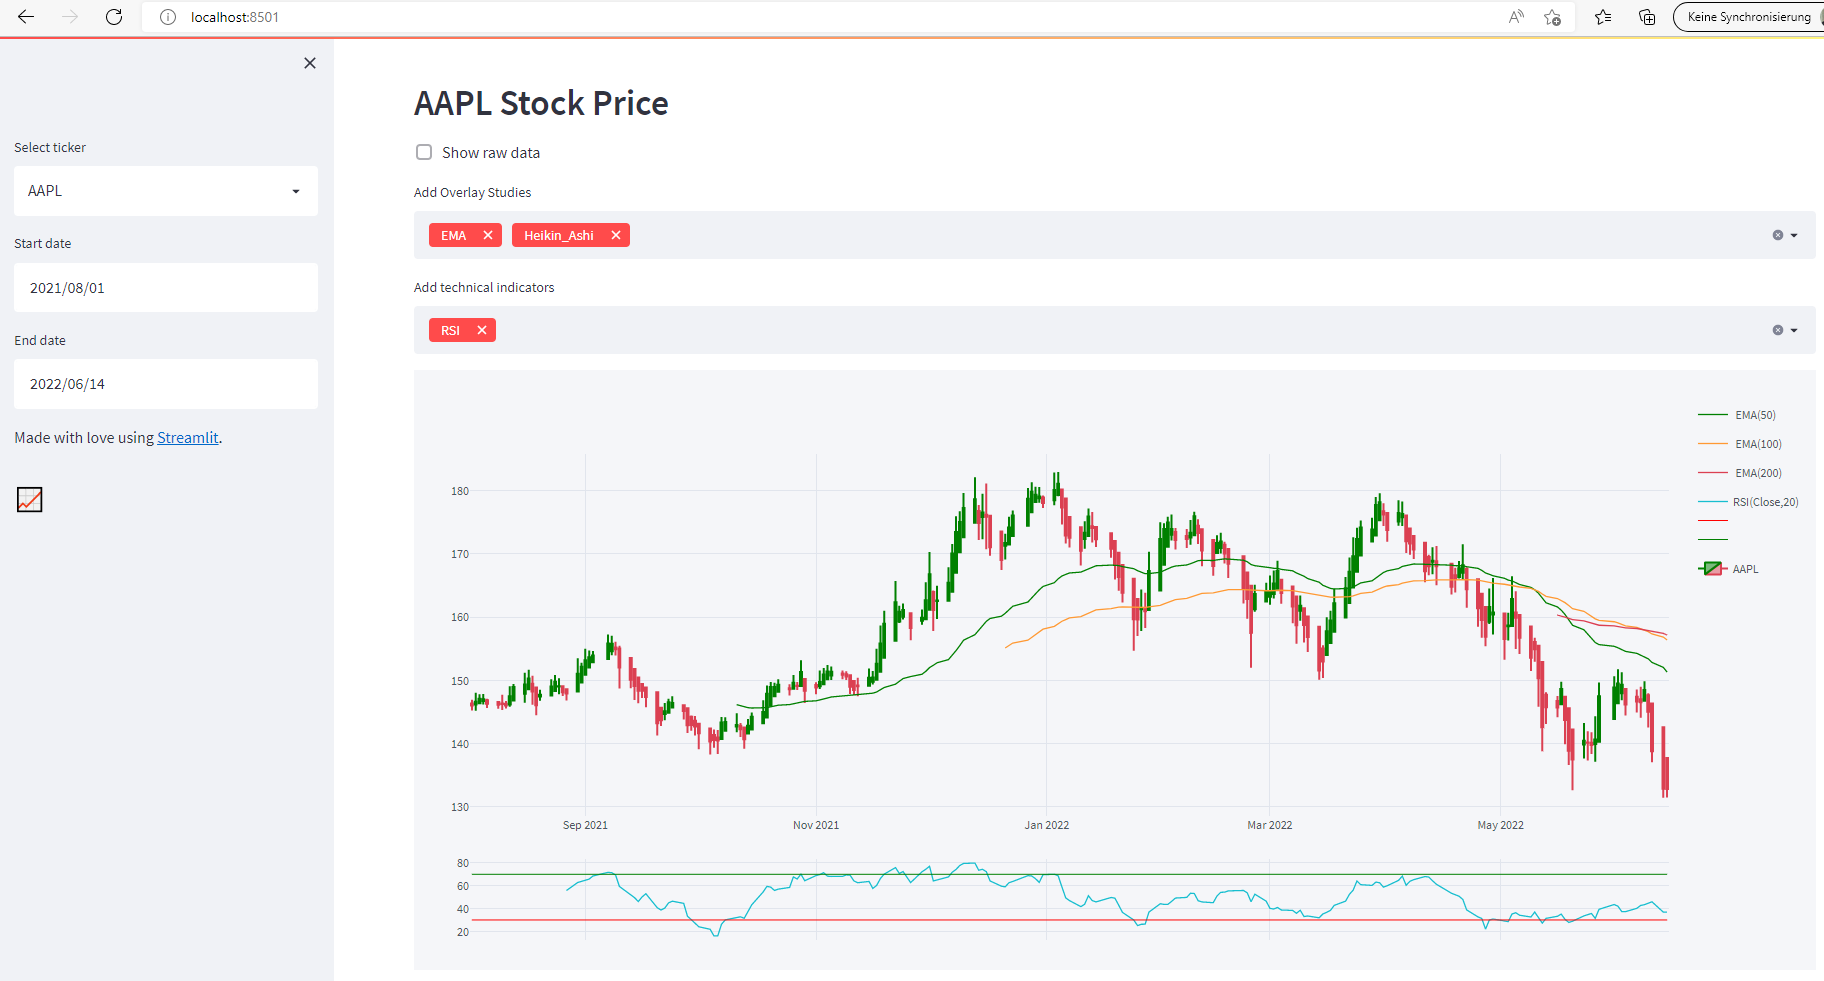
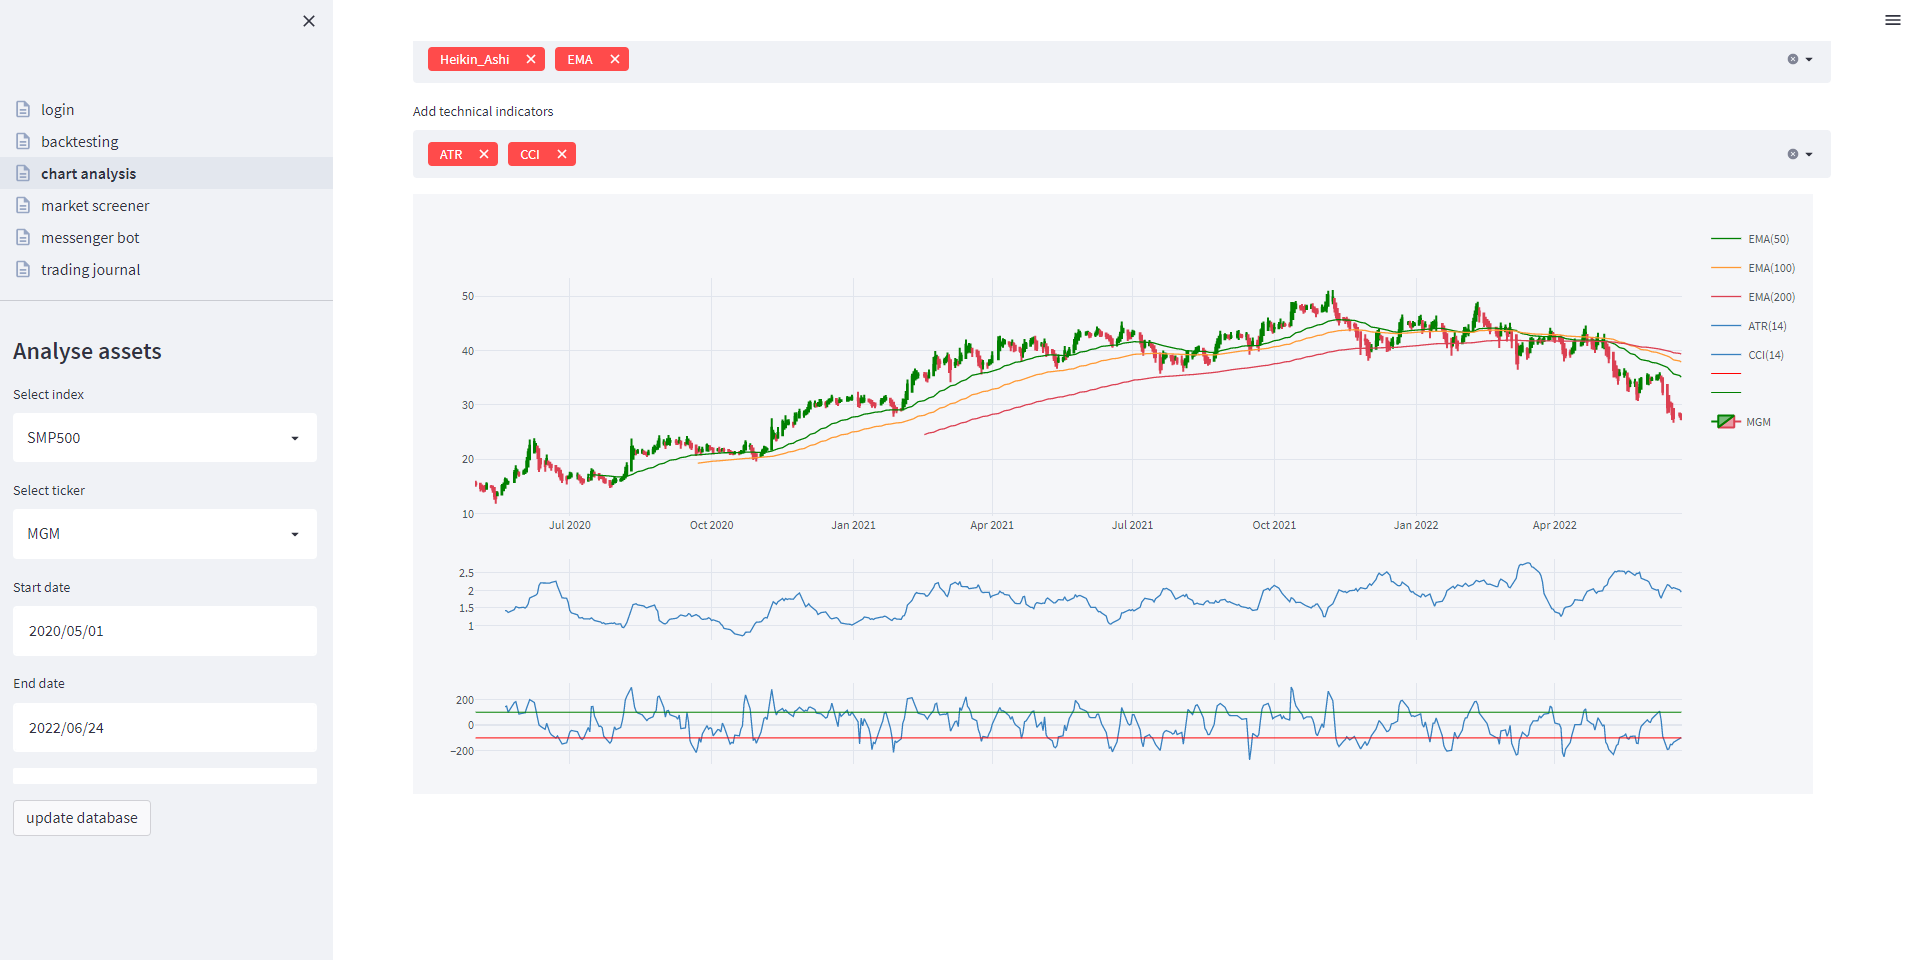
implemented new indicators

diff --git a/chart/chart.py b/chart/chart.py
@@ -14,13 +14,7 @@ class Chart:
         # Add technical overlay studies to candlestick chart:
         overlay_studies = st.multiselect(
             'Add Overlay Studies',
-            ['BB', 'EMA', 'S&R', 'Trendline', 'Heikin_Ashi'],
-            [])
-
-        # Add technical overlay studies to candlestick chart:
-        technical_indicators = st.multiselect(
-            'Add technical indicators',
-            ['RSI', 'MACD', 'Vol'],
+            ['BB', 'EMA', 'SMA', 'S&R', 'TR', 'Heikin_Ashi'],
             [])
 
         if 'Heikin_Ashi' in overlay_studies:
@@ -39,12 +33,21 @@ class Chart:
             self.qf.add_ema(periods=100, color='orange')
             self.qf.add_ema(periods=200, color='red')
 
-        if 'Trendline' in overlay_studies:
+        if 'SMA' in overlay_studies:
+            self.qf.add_sma(periods=50, color='green')
+            self.qf.add_sma(periods=100, color='orange')
+            self.qf.add_sma(periods=200, color='red')
+
+        if 'TR' in overlay_studies:
             self.qf.add_trendline(date0='2022-04-04', date1='2022-06-08', from_strfmt='%y%b%d', on='high',
                                   to_strfmt='%Y-%m-%d', color='blue')
 
             self.qf.add_trendline(date0='2022-04-01', date1='2022-05-20', from_strfmt='%y%b%d', on='low',
                                   to_strfmt='%Y-%m-%d', color='blue')
+
+        # bug in cufflinks
+        #if 'PTPS' in overlay_studies:
+        #    self.qf.add_ptps()
 
         if 'S&R' in overlay_studies:
             df_ticker, levels, start_levels = find_support_and_resistance_lines(df_ticker)
@@ -53,11 +56,18 @@ class Chart:
             for date, row in supres_df.T.iteritems():
                 if last_close < row['Close'].item():
                     if row['Low'].item() == row['supp_res_levels'].item():
-                        self.qf.add_resistance(date=str(date.date()), on='low', mode='toend')
+                        self.qf.add_resistance(date=str(date.date()), on='low', mode='toend', text='t')
                     if row['High'].item() == row['supp_res_levels'].item():
-                        self.qf.add_resistance(date=str(date.date()), on='high', mode='toend')
+                        self.qf.add_resistance(date=str(date.date()), on='high', mode='toend', text='t')
                 else:
-                    self.qf.add_support(date=str(date.date()), on='low', mode='toend', color='green')
+                    self.qf.add_support(date=str(date.date()), on='low', mode='toend', color='green', text='t')
+
+
+        # Add technical overlay studies to candlestick chart:
+        technical_indicators = st.multiselect(
+            'Add technical indicators',
+            ['RSI', 'MACD', 'ADX', 'ATR', 'CCI', 'DMI', 'VOL'],
+            [])
 
         if 'RSI' in technical_indicators:
             self.qf.add_rsi(periods=20, color='java')
@@ -65,8 +75,20 @@ class Chart:
         if 'MACD' in technical_indicators:
             self.qf.add_macd(fast_period=12, slow_period=26, signal_period=9)
 
-        if 'Vol' in technical_indicators:
+        if 'VOL' in technical_indicators:
             self.qf.add_volume()
+
+        if 'ADX' in technical_indicators:
+            self.qf.add_adx()
+
+        if 'ATR' in technical_indicators:
+            self.qf.add_atr()
+
+        if 'CCI' in technical_indicators:
+            self.qf.add_cci()
+        # Directional Movement Index (DMI)
+        if 'DMI' in technical_indicators:
+            self.qf.add_dmi()
 
         self.fig = self.qf.iplot(asFigure=True, dimensions=(1400, 600), up_color='green', down_color='red',
                                  fixedrange=False)
